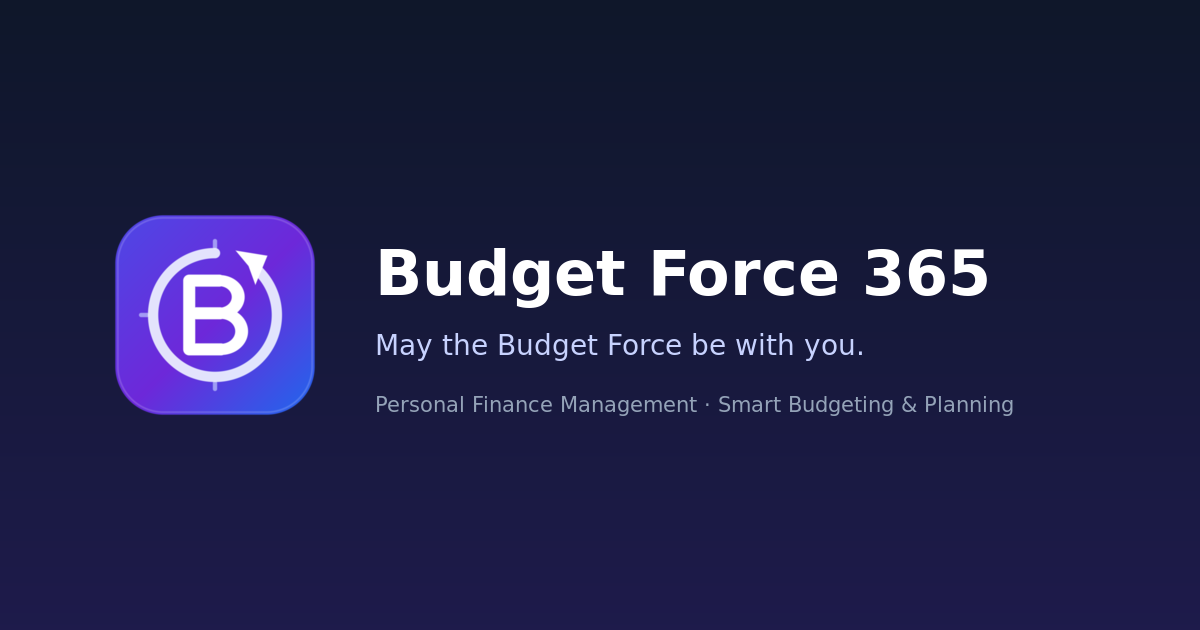
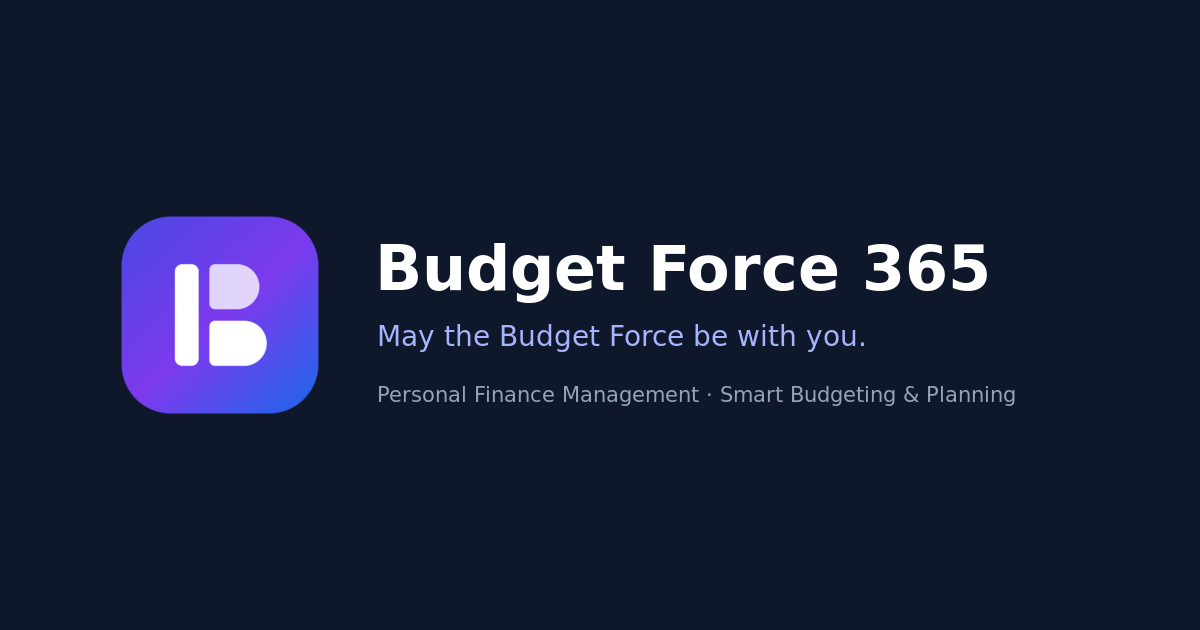
feat: improve app initialization and styling
- Enforce a 2.4s minimum splash screen display
- Add safe-area padding utilities for headers
- Refine app icon and branding visuals
- Tweak notification badge styling

diff --git a/client/src/App.tsx b/client/src/App.tsx
@@ -198,6 +198,15 @@ const AppContent: React.FC = () => {
   const [isGlobalRestoreModalOpen, setIsGlobalRestoreModalOpen] = useState(false);
   const [isAboutOpen, setIsAboutOpen] = useState(false);
   const [shareCopied, setShareCopied] = useState(false);
+  const [minSplashElapsed, setMinSplashElapsed] = useState(false);
+
+  // Ensure initial branding splash remains visible for at least 2.4s while app initializes in parallel
+  useEffect(() => {
+    const timer = window.setTimeout(() => {
+      setMinSplashElapsed(true);
+    }, 2400);
+    return () => window.clearTimeout(timer);
+  }, []);
 
   const [monthlyData, setMonthlyData] = useState<
     Record<string, MonthlyRecord>
@@ -1009,25 +1018,29 @@ const AppContent: React.FC = () => {
 
   const currentMonthRecord = monthlyData[currentMonth];
 
-  if (isAuthLoading || isSwitchingAccount) {
+  if (!minSplashElapsed || isAuthLoading || isSwitchingAccount) {
     return (
-      <div className="min-h-screen flex items-center justify-center bg-slate-50 dark:bg-slate-950 px-4 transition-colors">
-        <div className="flex flex-col items-center text-center gap-4 max-w-sm">
-          <BrandMark size={68} className="shadow-lg rounded-2xl" />
-          <div className="space-y-1">
-            <h1 className="text-xl font-extrabold tracking-tight text-slate-900 dark:text-white">
+      <div className="min-h-screen flex items-center justify-center bg-slate-50 dark:bg-slate-950 px-6 transition-colors relative overflow-hidden">
+        <div
+          aria-hidden="true"
+          className="pointer-events-none absolute inset-0 bg-[radial-gradient(circle_at_50%_40%,rgba(99,102,241,0.12),transparent_60%)] dark:bg-[radial-gradient(circle_at_50%_40%,rgba(99,102,241,0.18),transparent_60%)]"
+        />
+        <div className="relative flex flex-col items-center text-center gap-5 max-w-sm animate-in fade-in duration-300">
+          <BrandMark size={76} className="shadow-xl shadow-indigo-500/20 rounded-3xl" />
+          <div className="space-y-1.5">
+            <h1 className="text-2xl font-extrabold tracking-tight text-slate-900 dark:text-white">
               {APP_NAME}
             </h1>
-            <p className="text-xs font-semibold text-indigo-600 dark:text-indigo-400">
+            <p className="text-sm font-semibold text-indigo-600 dark:text-indigo-400">
               {APP_TAGLINE}
             </p>
           </div>
-          <div className="flex items-center gap-2 pt-1 text-slate-600 dark:text-slate-300 font-medium text-xs sm:text-sm">
-            <Loader2 className="w-4 h-4 text-indigo-600 dark:text-indigo-400 animate-spin shrink-0" />
+          <div className="flex items-center gap-2 pt-1 text-slate-500 dark:text-slate-400 font-medium text-xs">
+            <Loader2 className="w-3.5 h-3.5 text-indigo-600 dark:text-indigo-400 animate-spin shrink-0" />
             <span>
               {isSwitchingAccount
                 ? "Превключване на профил и зареждане на данни..."
-                : "Зареждане на профила..."}
+                : "Зареждане на финансите..."}
             </span>
           </div>
         </div>
@@ -1063,25 +1076,22 @@ const AppContent: React.FC = () => {
   return (
     <div className="min-h-screen bg-slate-50 dark:bg-slate-950 text-slate-900 dark:text-slate-100 flex flex-col font-sans transition-colors duration-200">
       <header className="bg-white/95 dark:bg-slate-900/95 border-b border-slate-200 dark:border-slate-800 sticky top-0 z-50 shadow-xs backdrop-blur-md transition-colors">
-        <div className="max-w-6xl mx-auto px-3 sm:px-6 lg:px-8">
+        <div className="max-w-6xl mx-auto header-safe-x">
           {/* Row 1: Brand Logo, Active Month & Controls */}
           <div className="flex justify-between items-center h-14 sm:h-15 gap-2 border-b border-slate-100 dark:border-slate-800/80">
-            <div className="flex items-center gap-2.5 min-w-0 shrink-0">
-              <BrandMark size={36} className="shadow-xs rounded-xl" />
+            <div className="flex items-center gap-2 sm:gap-2.5 min-w-0">
+              <BrandMark size={34} className="sm:w-9 sm:h-9 rounded-xl shrink-0" />
               <div className="flex items-center gap-2 min-w-0">
-                <span className="font-extrabold text-slate-800 dark:text-white text-base sm:text-lg tracking-tight whitespace-nowrap">
+                <span className="font-extrabold text-slate-800 dark:text-white text-[15px] sm:text-lg tracking-tight truncate">
                   {APP_NAME}
                 </span>
-                <span className="hidden sm:inline-flex items-center px-2.5 py-0.5 rounded-full text-xs font-semibold bg-indigo-50 dark:bg-indigo-950/60 text-indigo-700 dark:text-indigo-300 border border-indigo-100 dark:border-indigo-900/50 whitespace-nowrap">
+                <span className="hidden sm:inline-flex items-center px-2.5 py-0.5 rounded-full text-xs font-semibold bg-indigo-50 dark:bg-indigo-950/60 text-indigo-700 dark:text-indigo-300 border border-indigo-100 dark:border-indigo-900/50 whitespace-nowrap shrink-0">
                   {currentMonth}
                 </span>
               </div>
             </div>
 
-            <div className="flex items-center gap-2">
-              <span className="sm:hidden text-xs font-semibold px-2 py-0.5 rounded-full bg-slate-100 dark:bg-slate-800 text-slate-600 dark:text-slate-300">
-                {currentMonth}
-              </span>
+            <div className="flex items-center gap-1.5 sm:gap-2 shrink-0">
 
               {/* Cloud Sync Status / User Profile Chip */}
               {displayUser ? (

diff --git a/client/src/components/brand/BrandLogo.tsx b/client/src/components/brand/BrandLogo.tsx
@@ -12,9 +12,10 @@ interface BrandMarkProps {
 }
 
 /**
- * Budget Force 365 Brand Emblem:
- * Architectural "B" core monogram framed inside a 365° financial navigation orbit
- * with a north-east directional compass vector, rendered in Indigo-Purple-Blue.
+ * Budget Force 365 Brand Mark:
+ * Minimalist, flat fintech monogram ("B") crafted from three precision geometric
+ * forms on an Indigo–Purple–Blue gradient squircle. Designed for razor-sharp
+ * legibility from 16px favicons to full-bleed splash screens.
  */
 export const BrandMark: React.FC<BrandMarkProps> = ({
   size = 40,
@@ -22,7 +23,6 @@ export const BrandMark: React.FC<BrandMarkProps> = ({
 }) => {
   const uid = useId().replace(/:/g, "");
   const bgId = `bf365-bg-${uid}`;
-  const ringId = `bf365-ring-${uid}`;
 
   return (
     <svg
@@ -44,84 +44,28 @@ export const BrandMark: React.FC<BrandMarkProps> = ({
           gradientUnits="userSpaceOnUse"
         >
           <stop offset="0%" stopColor="#4f46e5" />
-          <stop offset="52%" stopColor="#6d28d9" />
+          <stop offset="52%" stopColor="#7c3aed" />
           <stop offset="100%" stopColor="#2563eb" />
-        </linearGradient>
-        <linearGradient
-          id={ringId}
-          x1="120"
-          y1="120"
-          x2="392"
-          y2="392"
-          gradientUnits="userSpaceOnUse"
-        >
-          <stop offset="0%" stopColor="#e0e7ff" />
-          <stop offset="100%" stopColor="#ffffff" stopOpacity="0.92" />
         </linearGradient>
       </defs>
 
-      {/* Rounded-Square App Emblem */}
-      <rect x="16" y="16" width="480" height="480" rx="116" fill={`url(#${bgId})`} />
-      <rect
-        x="22"
-        y="22"
-        width="468"
-        height="468"
-        rx="110"
-        stroke="#ffffff"
-        strokeOpacity="0.18"
-        strokeWidth="4"
-      />
+      {/* Flat Modern Fintech Squircle Tile */}
+      <rect x="16" y="16" width="480" height="480" rx="120" fill={`url(#${bgId})`} />
 
-      {/* 365 Financial Navigation Orbit Arc */}
+      {/* Left Vertical Anchor Pillar */}
+      <rect x="146" y="132" width="58" height="248" rx="18" fill="#ffffff" />
+
+      {/* Upper Momentum Wing */}
       <path
-        d="M 358 148 A 144 144 0 1 1 256 112"
-        stroke={`url(#${ringId})`}
-        strokeWidth="24"
-        strokeLinecap="round"
+        d="M 244 132 H 297 A 55 55 0 0 1 297 242 H 244 A 14 14 0 0 1 230 228 V 146 A 14 14 0 0 1 244 132 Z"
+        fill="#ffffff"
+        fillOpacity="0.78"
       />
 
-      {/* Directional Compass Pointer */}
-      <path d="M 304 106 L 378 118 L 350 186 L 334 142 Z" fill="#ffffff" />
-
-      {/* Subtle Cardinal Calibration Marks */}
-      <line
-        x1="256"
-        y1="82"
-        x2="256"
-        y2="98"
-        stroke="#c7d2fe"
-        strokeWidth="10"
-        strokeLinecap="round"
-      />
-      <line
-        x1="256"
-        y1="414"
-        x2="256"
-        y2="430"
-        stroke="#c7d2fe"
-        strokeOpacity="0.7"
-        strokeWidth="10"
-        strokeLinecap="round"
-      />
-      <line
-        x1="82"
-        y1="256"
-        x2="98"
-        y2="256"
-        stroke="#c7d2fe"
-        strokeOpacity="0.7"
-        strokeWidth="10"
-        strokeLinecap="round"
-      />
-
-      {/* Geometric 'B' Monogram Core */}
+      {/* Lower Foundation Wing */}
       <path
-        d="M 196 176 L 196 336 M 196 176 L 264 176 C 296 176 314 192 314 214 C 314 234 298 248 268 252 L 196 252 M 268 252 C 304 256 322 272 322 296 C 322 320 302 336 268 336 L 196 336"
-        stroke="#ffffff"
-        strokeWidth="28"
-        strokeLinecap="round"
-        strokeLinejoin="round"
+        d="M 244 270 H 315 A 55 55 0 0 1 315 380 H 244 A 14 14 0 0 1 230 366 V 284 A 14 14 0 0 1 244 270 Z"
+        fill="#ffffff"
       />
     </svg>
   );

diff --git a/client/src/components/notifications/NotificationCenter.tsx b/client/src/components/notifications/NotificationCenter.tsx
@@ -487,7 +487,7 @@ export const NotificationCenter: React.FC<NotificationCenterProps> = ({
       : null;
 
   return (
-    <div ref={containerRef} className="relative">
+    <div ref={containerRef} className="relative shrink-0 pr-0.5">
       {/* Header Bell Trigger Button */}
       <button
         type="button"
@@ -511,7 +511,7 @@ export const NotificationCenter: React.FC<NotificationCenterProps> = ({
       >
         <Bell className="w-4 h-4" />
         {unreadCount > 0 && (
-          <span className="absolute -top-1 -right-1 min-w-[18px] h-[18px] px-1 rounded-full bg-rose-600 text-white text-[10px] font-bold flex items-center justify-center tabular-nums shadow-xs ring-2 ring-white dark:ring-slate-900">
+          <span className="absolute -top-0.5 -right-0.5 min-w-[18px] h-[18px] px-1 rounded-full bg-rose-600 text-white text-[10px] font-bold flex items-center justify-center tabular-nums shadow-xs ring-2 ring-white dark:ring-slate-900 pointer-events-none">
             {unreadCount > 99 ? "99+" : unreadCount}
           </span>
         )}

diff --git a/client/src/index.css b/client/src/index.css
@@ -360,6 +360,22 @@ body {
 .mb-safe {
   margin-bottom: max(env(safe-area-inset-bottom, 0px), 8px);
 }
+.header-safe-x {
+  padding-left: max(env(safe-area-inset-left, 0px), 16px);
+  padding-right: max(env(safe-area-inset-right, 0px), 16px);
+}
+@media (min-width: 640px) {
+  .header-safe-x {
+    padding-left: max(env(safe-area-inset-left, 0px), 24px);
+    padding-right: max(env(safe-area-inset-right, 0px), 24px);
+  }
+}
+@media (min-width: 1024px) {
+  .header-safe-x {
+    padding-left: max(env(safe-area-inset-left, 0px), 32px);
+    padding-right: max(env(safe-area-inset-right, 0px), 32px);
+  }
+}
 
 /* Mobile tap target utilities */
 @media (max-width: 768px) {
